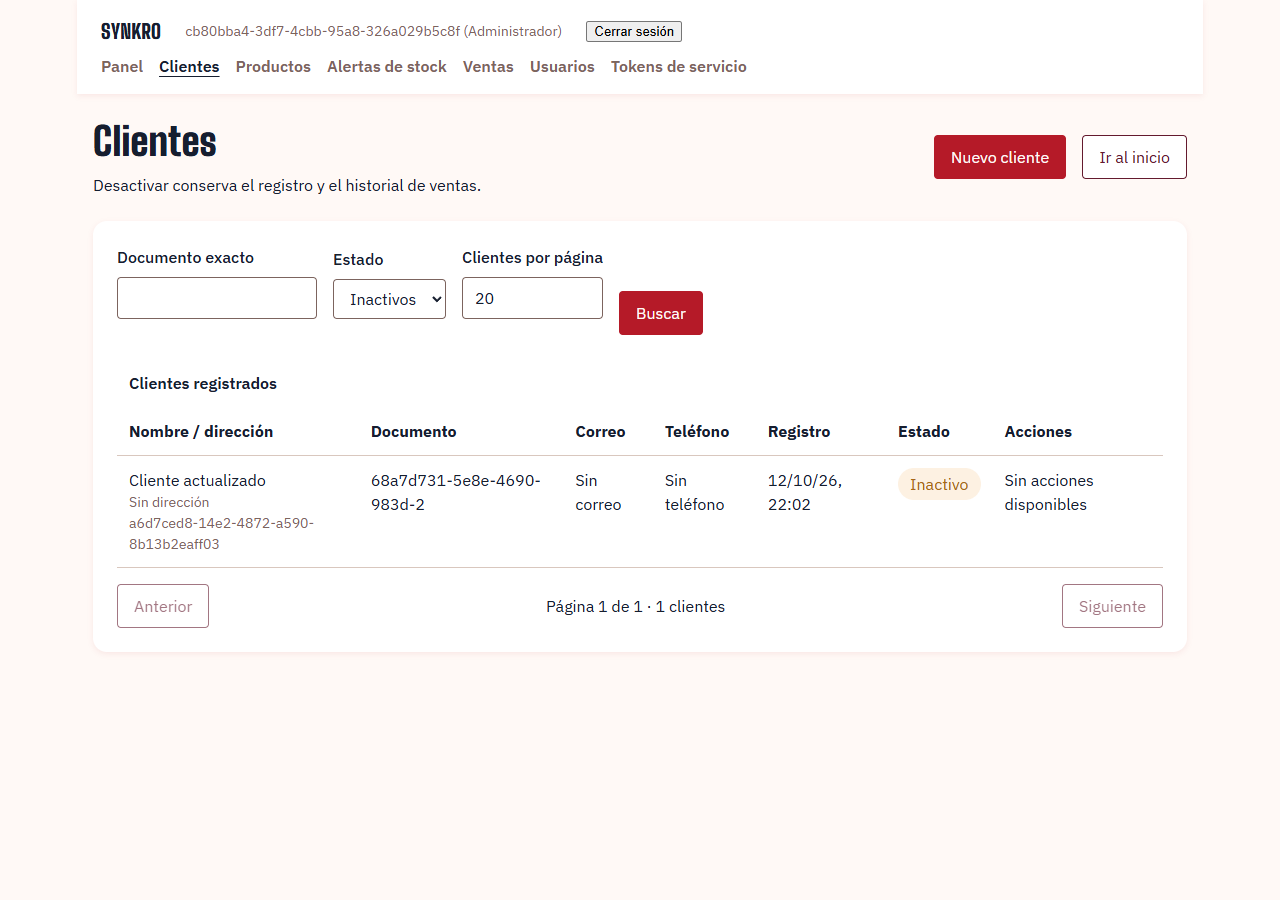
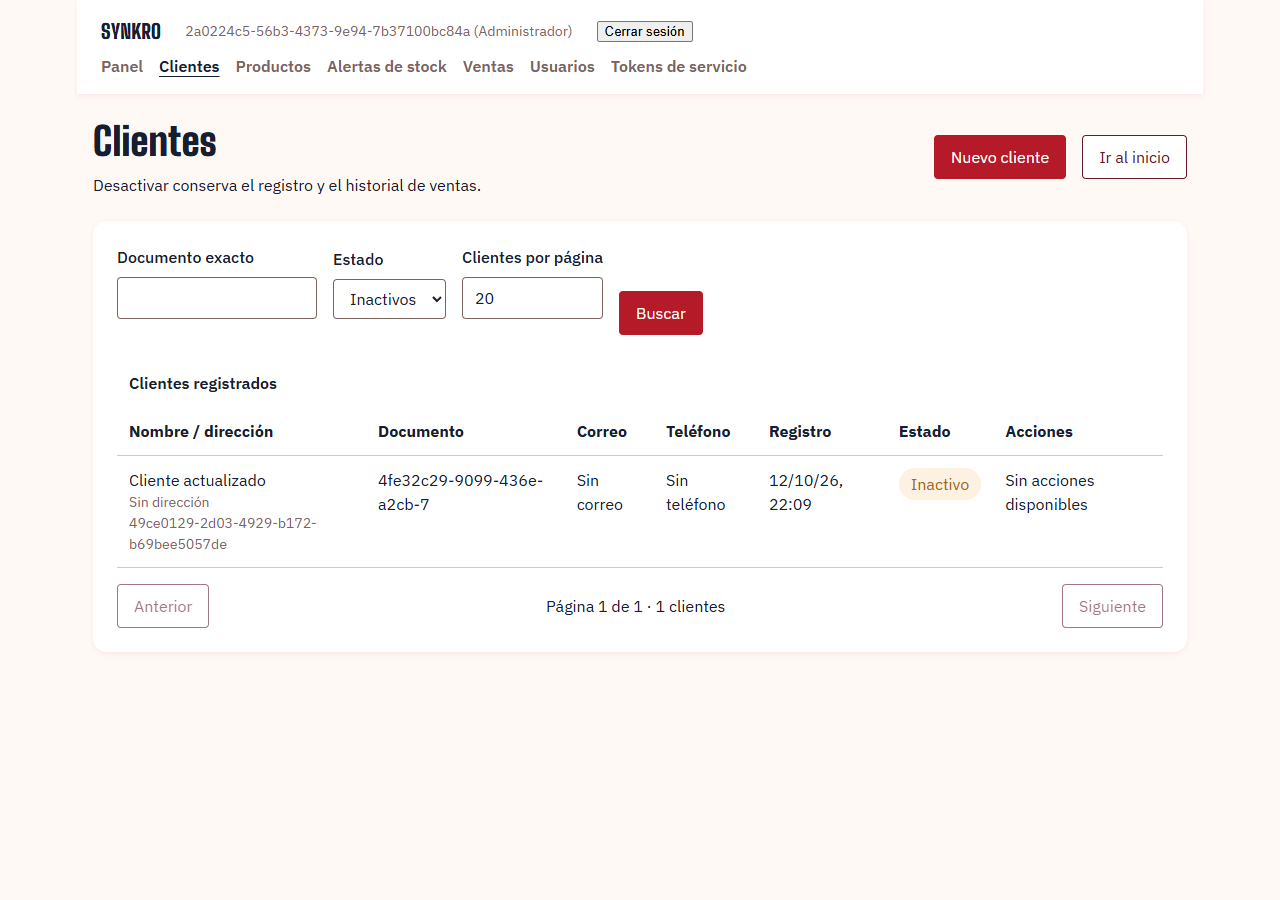
docs(customers): record final cancellation and real acceptance evidence

diff --git a/docs/verification.md b/docs/verification.md
@@ -9,8 +9,8 @@ Angular, tokens, almacenamiento de sesión ni transporte API propios.
 
 | Repositorio | Rama de entrega | SHA de código ejecutado en navegador e imagen |
 |---|---|---|
-| synkro-customers-portal | feat/customers-management-portal | `216e3793296e6315b5abb45cb402621ba1498563` |
-| synkro-front | feat/customers-portal-integration | `80211842ad444c7cc0100503506ab8f835ec0d7b` |
+| synkro-customers-portal | feat/customers-management-portal | `7e354935598c8151d644f9e2e72b35acf2280ca2` |
+| synkro-front | feat/customers-portal-integration | `2174bdae341aa8f7ccb493bbe76850fb939849fb` |
 
 Los commits posteriores contienen informe, evidencia y documentación; no cambian
 los archivos de construcción o ejecución. El SHA final publicado se obtiene con
@@ -47,7 +47,7 @@ aceptación completa de plataforma HU-INF-02.
 | 14 Aislamiento | PASS | Host deadline/error/retry tests; imágenes reales, caída y recuperación de assets de ambos portales; Customers remonta con botón sin refresh |
 | 15 Accesibilidad | PASS | labels, mensajes asociados, foco de título/validación/dialog y controles nativos; regresión de colisión CSS Host; capturas móvil/español y tokens |
 | 16 Despliegue | PASS | imágenes reales Docker de ambos SHA; compose config y overlay; DNS/80/red externa/sin ports; entrada no-store, JS hash immutable, preservación de bundles probada |
-| 17 Testing/CI | PASS | 21 Angular + 3 Node; 81,84 % global/per-component >=70; Host 339 + 3 todo previos, 94,70 %; instalación/lint/tipos/build y CI en verde |
+| 17 Testing/CI | PASS | 22 Angular + 3 Node; 81,87 % global/per-component >=70; Host 339 + 3 todo previos, 94,70 %; instalación/lint/tipos/build y CI en verde |
 | 18 Aceptación real | PASS | browser-result.json y tres capturas, Chrome 154.0.8037.98; servicios reales con Postgres tmpfs exclusivo y usuarios/claves efímeros |
 | 19 Handoff | PASS | design.md, tdd-evidence.md, review-plan.md, infrastructure-handoff.md; variables/rutas/red/DNS/puerto/comandos y selección posterior de merges |
 
@@ -55,8 +55,8 @@ aceptación completa de plataforma HU-INF-02.
 
 Portal: `npm ci`, lint, tipos, coverage, `node --test scripts/*.test.mjs`, build,
 boundary compilado, configuración Compose base/overlay y Docker PASS. Cobertura:
-81,84 % statements, 82,96 % branches, 80,68 % functions, 95,26 % lines.
-Componentes: raíz 92,30 %, formulario 97,95 %, página 77,59 %; servicio 95 %.
+81,87 % statements, 83,59 % branches, 80,68 % functions, 95,26 % lines.
+Componentes: raíz 92,30 %, formulario 97,95 %, página 77,64 %; servicio 95 %.
 Instalación desde lockfile con Node 22.23.3; audit: 0 vulnerabilidades.
 
 Host: instalación desde lockfile, lint, coverage, tipos mediante build y chequeo
@@ -78,8 +78,8 @@ una suite con dobles equivalente a aceptación real.
 Resultado final PASS para los dos SHA de código anteriores. Participantes exactos
 en JSON: Auth API/DB, Customers API/DB, Gateway, Auth/Products/Sales portales.
 Se ejecutó desde snapshots Git inmutables, sin cambiar sus checkouts.
-Sales ausente después de calentar DNS: 502 no-store en 2,009 s; Customers: 502
-no-store en 2,003 s. Host /customers y assets Products responden 200 durante esas
+Sales ausente después de calentar DNS: 502 no-store en 2,010 s; Customers: 502
+no-store en 2,008 s. Host /customers y assets Products responden 200 durante esas
 caídas. Ambos recuperan assets; Customers se recupera con retry del módulo.
 No se ejecutó negocio de Sales/Products ni se certifican sus APIs.
 

diff --git a/docs/tdd-evidence.md b/docs/tdd-evidence.md
@@ -18,6 +18,7 @@ los resúmenes y hashes se conservan en `evidence/tdd-runs.json` para auditoría
 | Límites de Customers | `customers-warm-red.log`: falta resolver_timeout de Customers, 2 verdes | límites preservados de Sales y añadidos de Customers |
 | Cache de fallos Customers | `customers-cache-red.log`: falta interceptar 502 | suite completa Host: 339 verdes, 3 todo preexistentes |
 | Aislamiento visual | `styles-red.log`: texto hereda uppercase de Host, 20 verdes | `styles-green.log`: 21 verdes, cobertura 81,84 % |
+| Cambio de ruta durante PUT | `route-write-red.log`: conserva pending después de cancelar, 21 verdes | `route-write-green.log`: 22 verdes, solicitud abortada y respuesta tardía ignorada; cobertura 81,87 % |
 
 Limitaciones: los cambios de instalación/configuración tuvieron fallos de entorno
 y compilación que no cuentan como rojo funcional. Algunas aserciones adicionales
